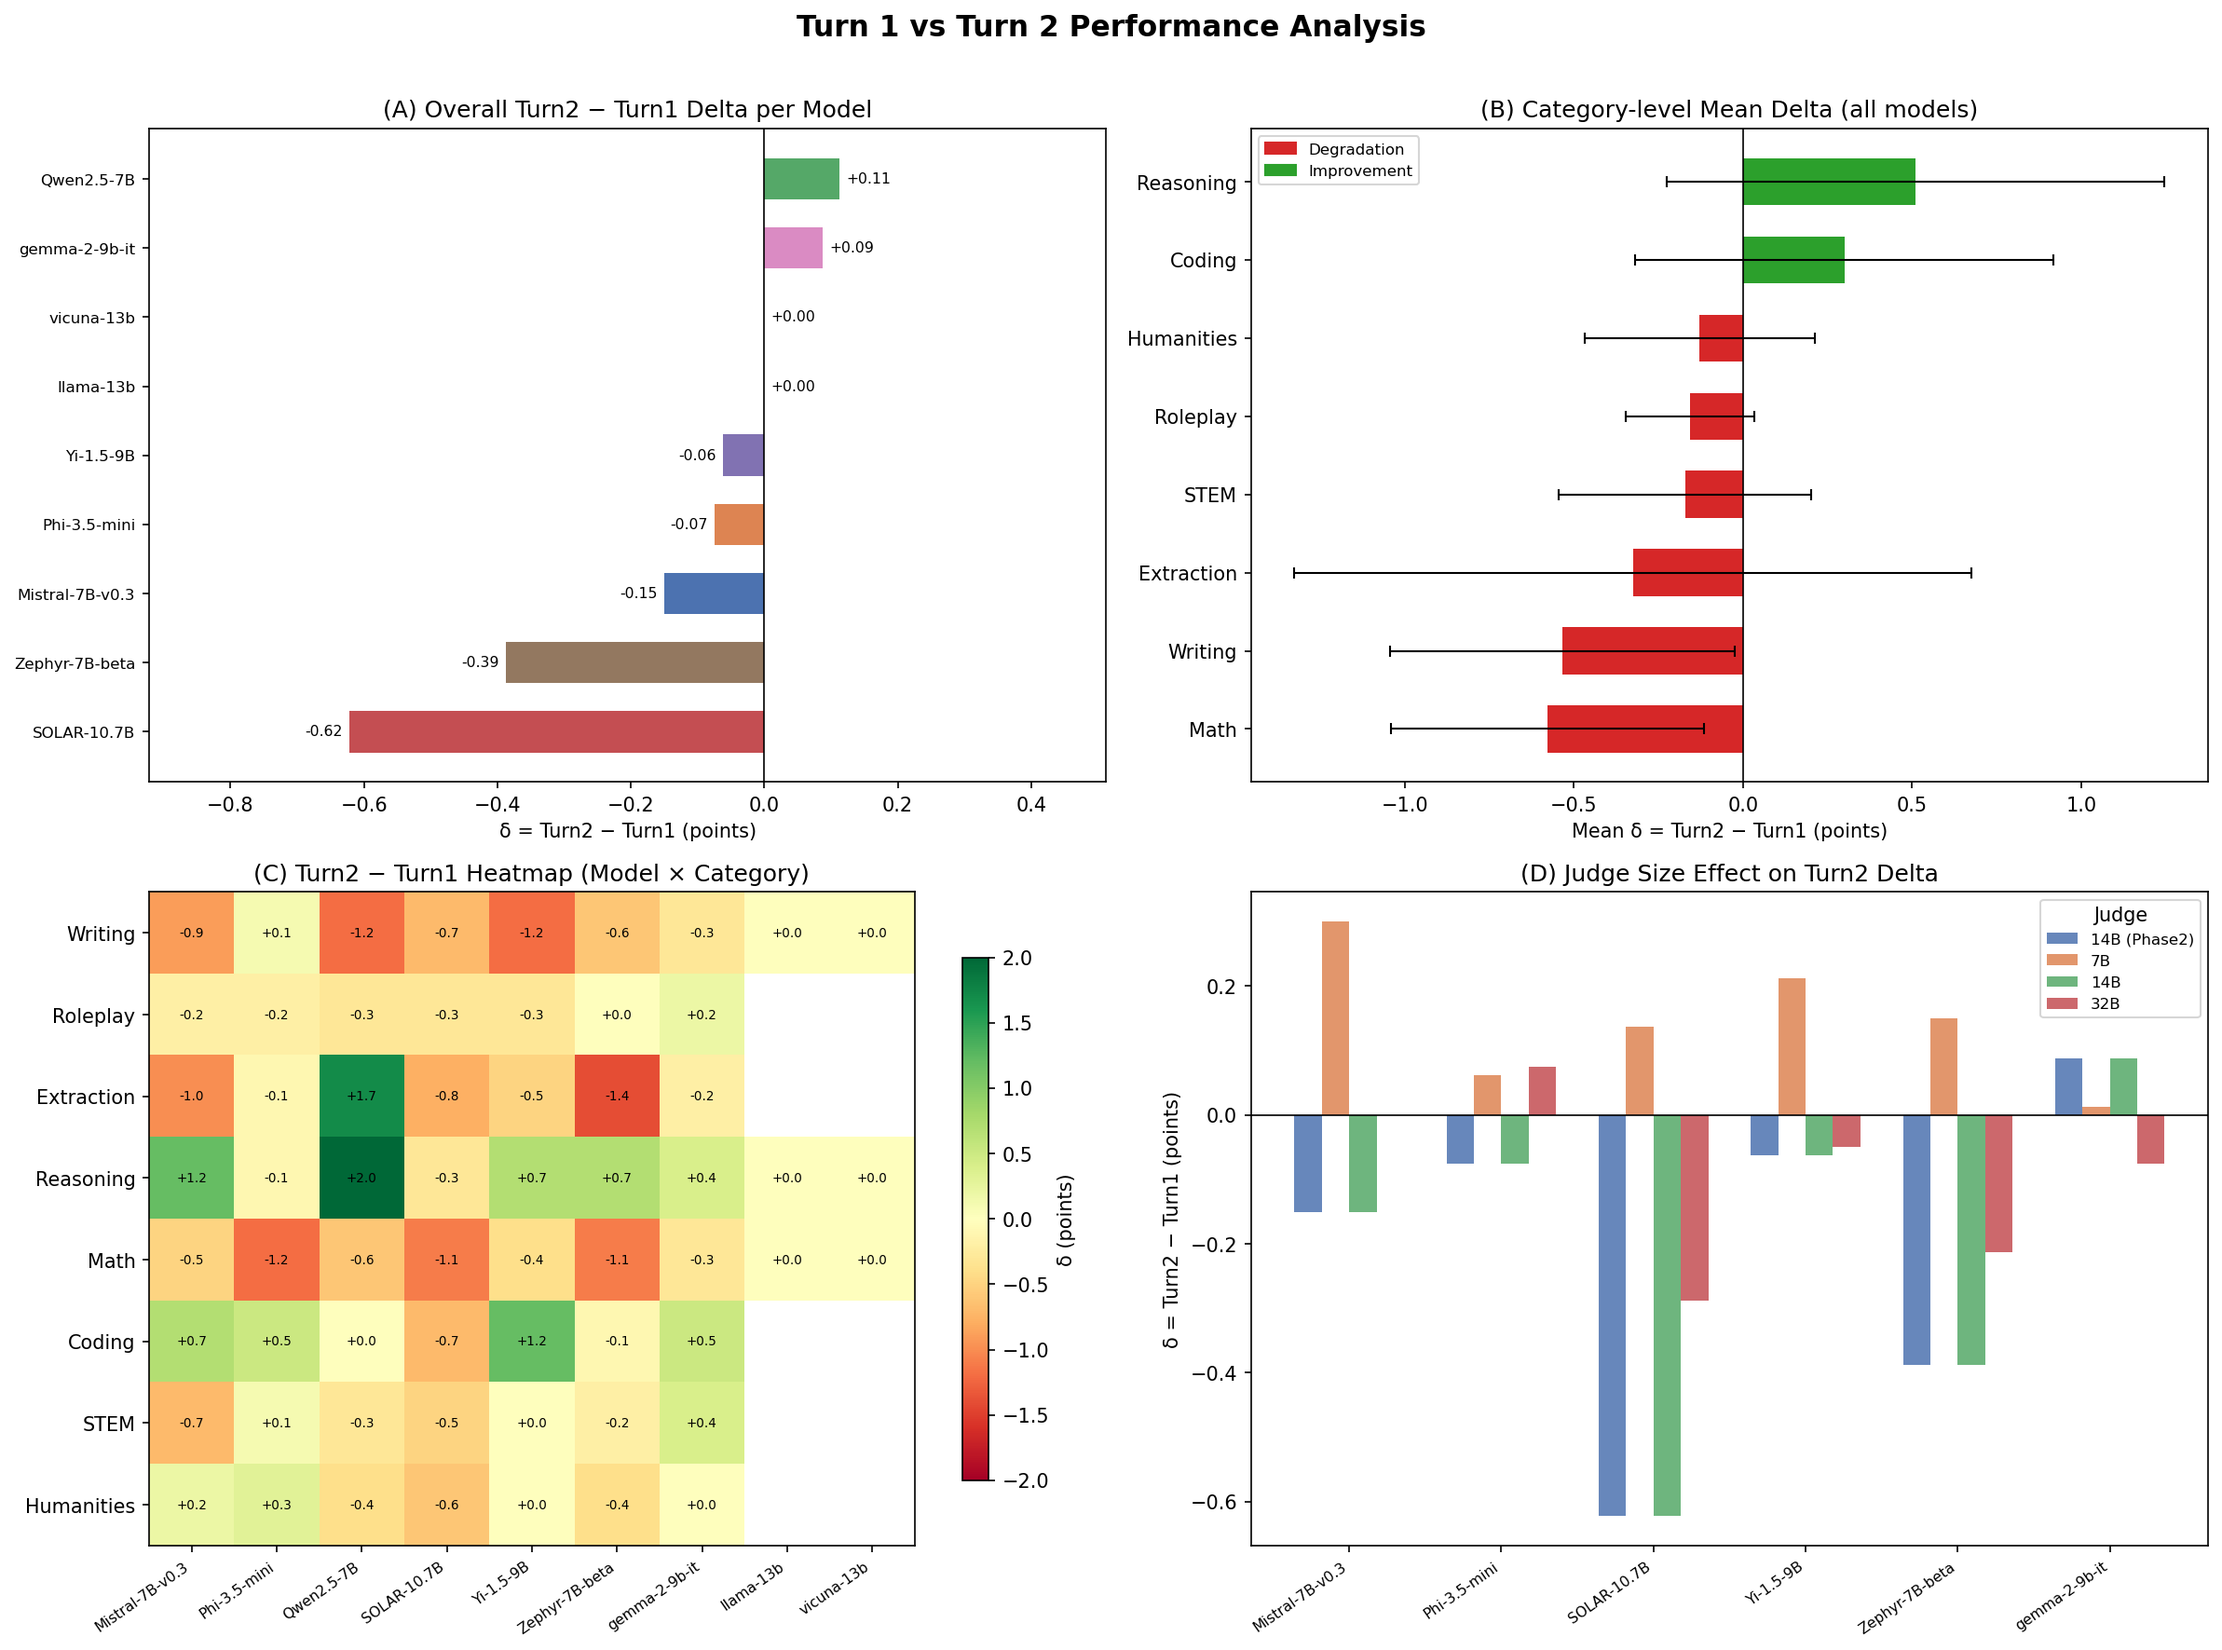
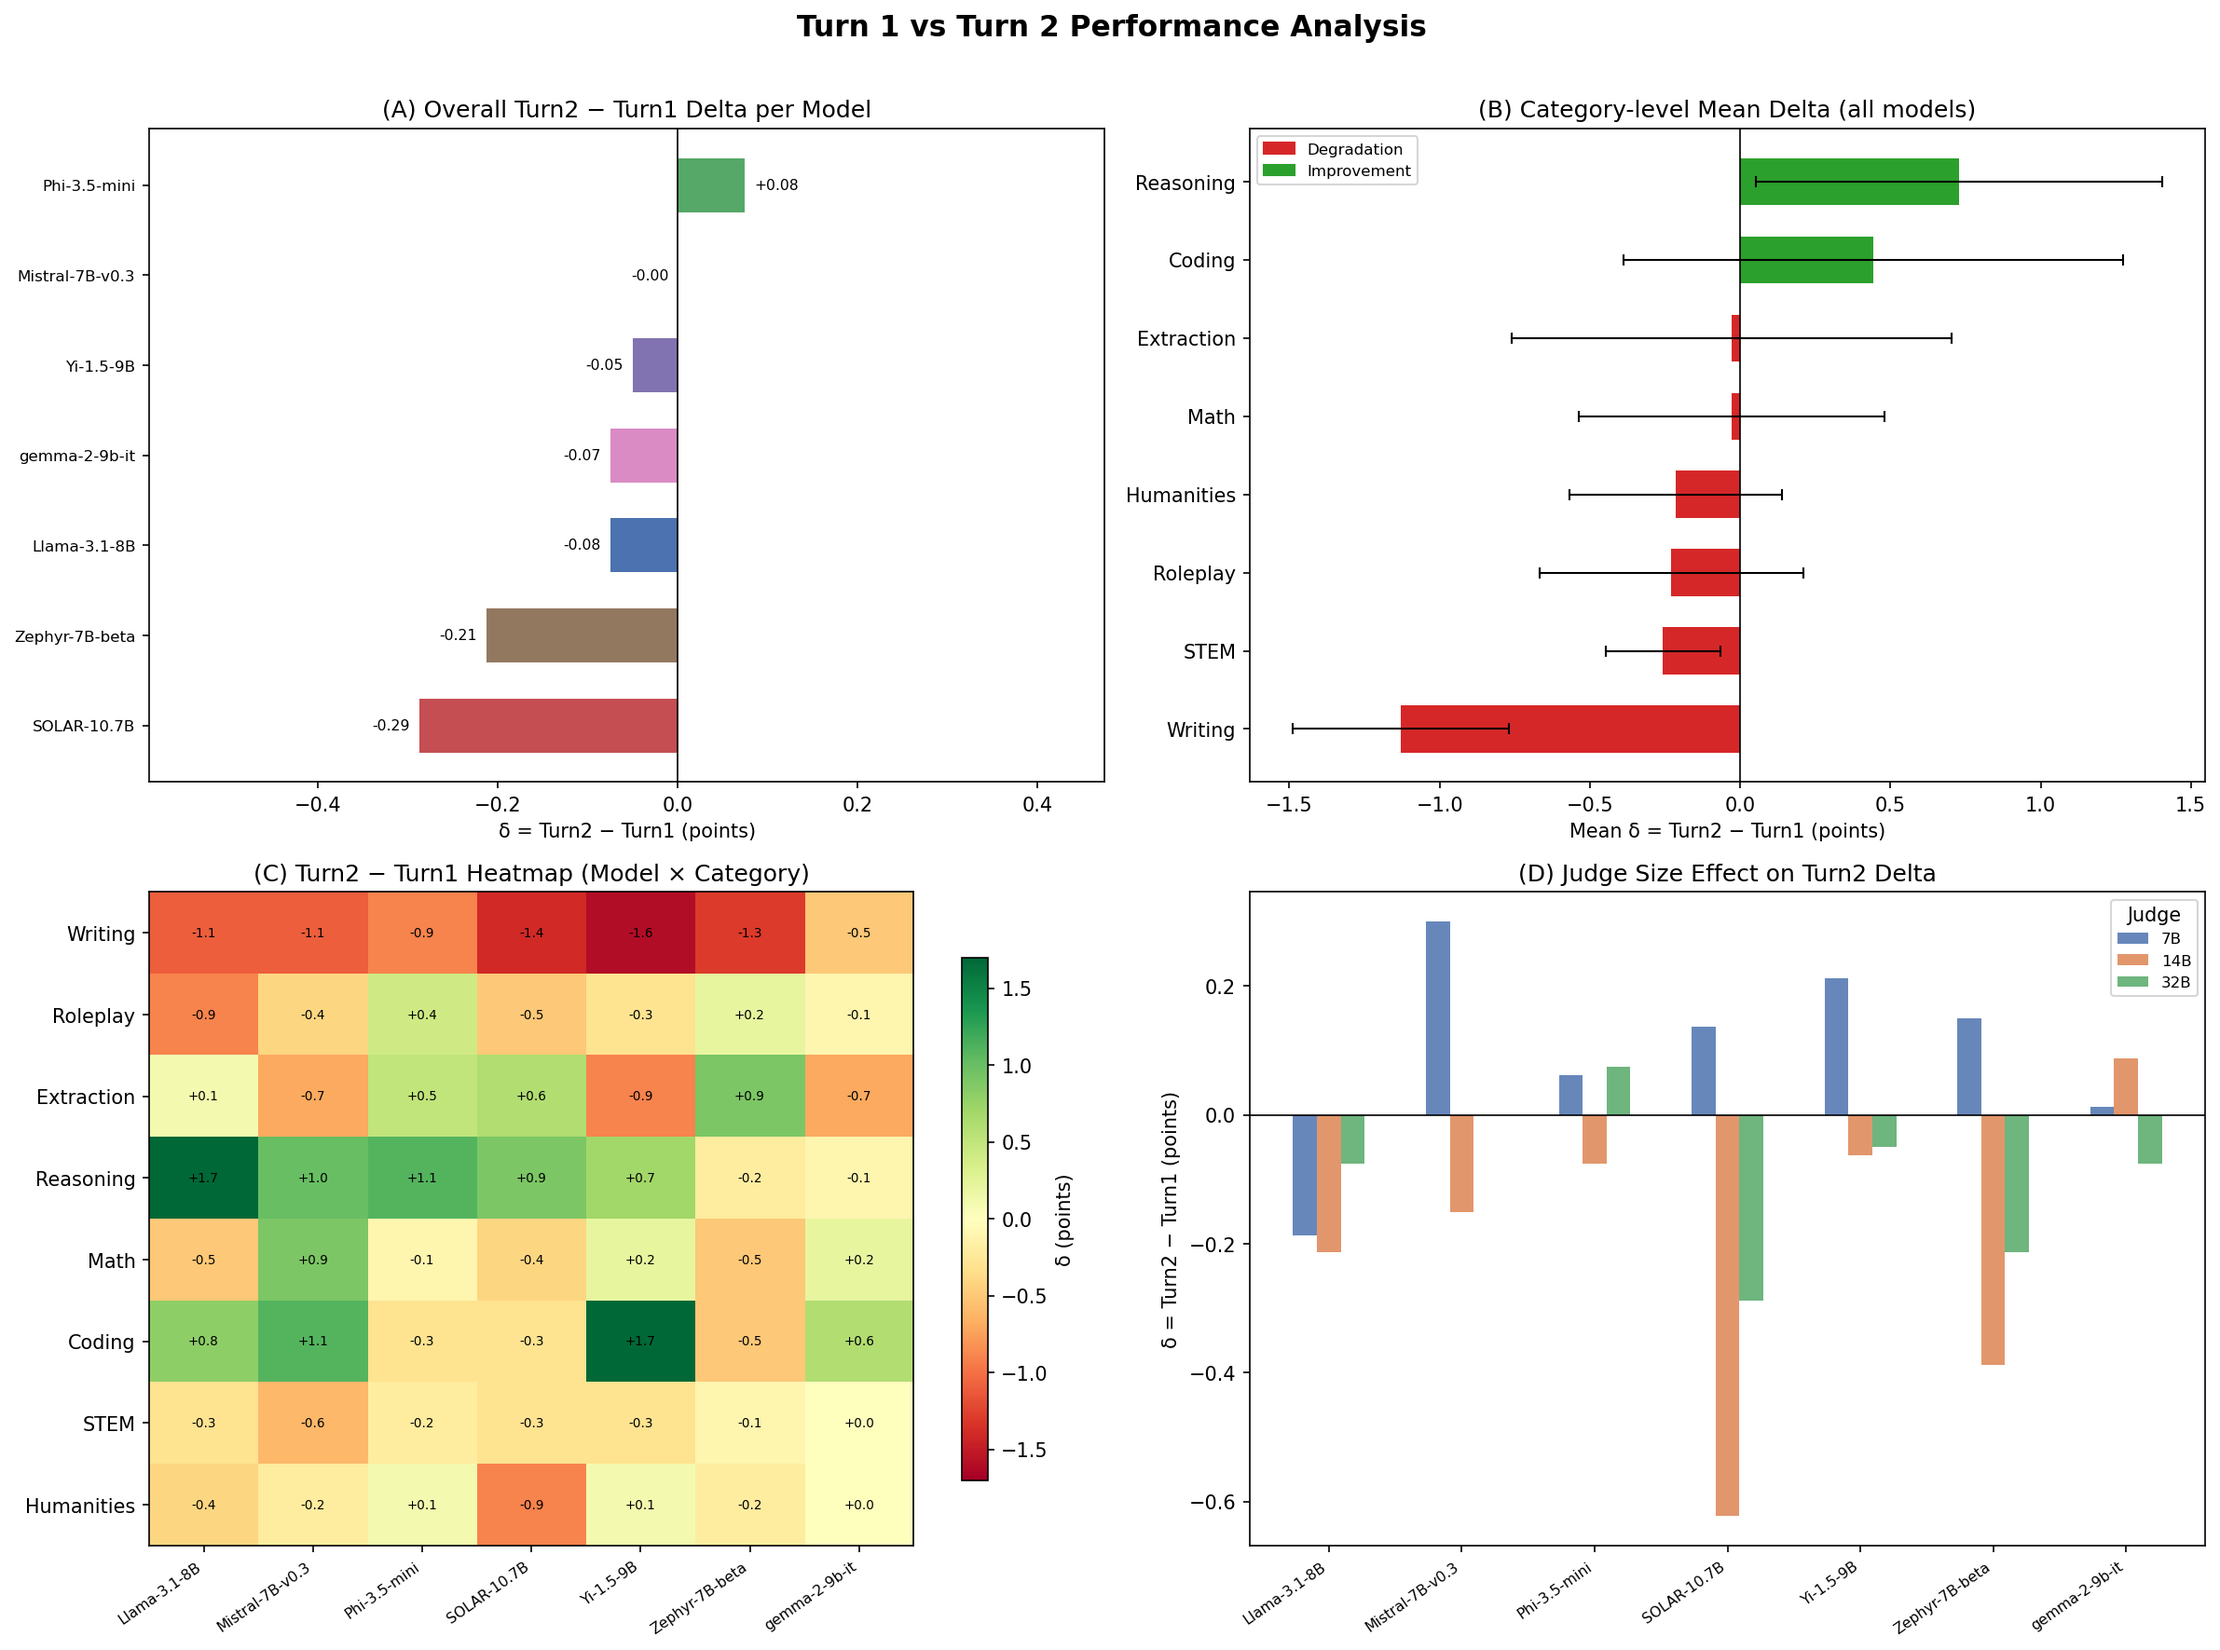
refactor: reorganize data by phase, fix self-judge contamination
Data reorganization:
- data/judgments_phase1/ : Qwen2.5-7B (self-judge) + llama-13b/vicuna-13b (gpt-4 judge)
- data/judgments_phase2/ : 6 models judged by Qwen2.5-14B (clean)
- data/judgments_phase3/ : 7 models judged by Qwen2.5 7B/14B/32B (already clean)

Analysis scripts updated to use Phase 3 judge_32B as primary data source:
- analyze_discriminability.py: Phase 2 → Phase 3/32B, 6 models → 7 models
- analyze_tiny_mt_bench.py: same; TopDisc-25 achieves ρ≥0.95 (not TopDisc-15)
- analyze_turn_degradation.py: Phase 2 primary → Phase 3/32B primary; Panel D Phase3-only

Key result changes (Phase 3, 7 models):
- tinyMT-Bench: TopDisc-25 for ρ≥0.95 (vs TopDisc-15 previously — corrected)
- Turn degradation: Writing −1.13 worst, Math −0.03 near-neutral, Coding/Reasoning still improve

Shell scripts: data/judgments/ → data/judgments_phase2/

diff --git a/scripts/analyze_turn_degradation.py b/scripts/analyze_turn_degradation.py
@@ -29,12 +29,15 @@ DATA_DIR = ROOT / "data"
 FIG_DIR = ROOT / "figures"
 FIG_DIR.mkdir(exist_ok=True)
 
-PHASE2_JUDGE_DIR = DATA_DIR / "judgments" / "single_grade"
+# Phase 3 데이터만 사용 (self-judge / 동일 패밀리 편향 제거)
+# Phase 2 데이터(data/judgments_phase2/)는 Qwen2.5-14B judge → 분석에서 제외
 PHASE3_JUDGE_DIRS = {
     "7B":  DATA_DIR / "judgments_phase3" / "judge_7B"  / "single_grade",
     "14B": DATA_DIR / "judgments_phase3" / "judge_14B" / "single_grade",
     "32B": DATA_DIR / "judgments_phase3" / "judge_32B" / "single_grade",
 }
+# 주 분석에 사용할 judge (불일치율 가장 낮음)
+PRIMARY_JUDGE_DIR = PHASE3_JUDGE_DIRS["32B"]
 
 CATEGORIES = ["writing", "roleplay", "extraction", "reasoning",
               "math", "coding", "stem", "humanities"]
@@ -215,10 +218,10 @@ def make_figure(delta_table: dict, phase3_tables: dict, output_path: Path):
                 ax.text(j, i, f"{v:+.1f}", ha="center", va="center",
                         fontsize=6.5, color="black")
 
-    # ── Panel D: Judge 크기별 Overall Turn2 저하 비교 ─────────────────────────
+    # ── Panel D: Judge 크기별 Overall Turn2 저하 비교 (Phase 3 only) ──────────
     ax = axes[1, 1]
-    judge_labels = ["14B (Phase2)", "7B", "14B", "32B"]
-    judge_sources = [delta_table] + [phase3_tables.get(k) for k in ["7B", "14B", "32B"]]
+    judge_labels = ["7B", "14B", "32B"]
+    judge_sources = [phase3_tables.get(k) for k in ["7B", "14B", "32B"]]
 
     # 모든 judge에 공통으로 존재하는 모델만 사용
     common_models = None
@@ -245,7 +248,7 @@ def make_figure(delta_table: dict, phase3_tables: dict, output_path: Path):
                 deltas.append(statistics.mean(p[1] - p[0] for p in all_pairs))
             else:
                 deltas.append(0.0)
-        offset = (k - 1.5) * width
+        offset = (k - 1.0) * width
         ax.bar(x + offset, deltas, width=width, label=jlabel, color=jcolor, alpha=0.85)
 
     ax.axhline(0, color="black", linewidth=0.8)
@@ -297,13 +300,14 @@ def print_summary(delta_table: dict):
 
 # ── 메인 ──────────────────────────────────────────────────────────────────────
 def main():
-    print("Phase 2 (Qwen2.5-14B judge) 데이터 로드 중...")
-    phase2_data = load_judgments(PHASE2_JUDGE_DIR)
-    print(f"  → 모델 {len(phase2_data)}개 로드 완료: {sorted(phase2_data.keys())}")
+    # 주 분석: Phase 3 judge_32B (불일치율 가장 낮음, self-judge 편향 없음)
+    print("Phase 3 (judge_32B) 데이터 로드 중...")
+    primary_data = load_judgments(PRIMARY_JUDGE_DIR)
+    print(f"  → 모델 {len(primary_data)}개 로드 완료: {sorted(primary_data.keys())}")
 
-    delta_table = compute_delta_table(phase2_data)
+    delta_table = compute_delta_table(primary_data)
 
-    # Phase 3 데이터
+    # judge 크기별 비교용 (Panel D)
     phase3_tables = {}
     for judge_size, judge_dir in PHASE3_JUDGE_DIRS.items():
         if judge_dir.exists():

diff --git a/scripts/analyze_tiny_mt_bench.py b/scripts/analyze_tiny_mt_bench.py
@@ -63,9 +63,10 @@ plt.rcParams.update({
 
 # ── 상수 ──────────────────────────────────────────────────────────────────────
 DISC_CSV   = _PROJECT_DIR / "data" / "results_discriminability.csv"
-GRADE_DIR  = _PROJECT_DIR / "data" / "judgments" / "single_grade"
+GRADE_DIR  = _PROJECT_DIR / "data" / "judgments_phase3" / "judge_32B" / "single_grade"
 OUTPUT_CSV = _PROJECT_DIR / "data" / "results_tiny_mt_bench.csv"
 
+# Phase 3 subject 모델 7개 (Qwen 계열 제외 — judge 역할)
 MODELS = [
     "Phi-3.5-mini-Instruct",
     "gemma-2-9b-it",
@@ -73,6 +74,7 @@ MODELS = [
     "Mistral-7B-Instruct-v0.3",
     "SOLAR-10.7B-Instruct",
     "Zephyr-7B-beta",
+    "Llama-3.1-8B-Instruct",
 ]
 N_SIZES  = [5, 10, 15, 20, 25, 30, 40, 60, 80]
 N_TRIALS = 200   # 랜덤 서브샘플 반복 횟수 (많을수록 분산 추정 정확)

diff --git a/scripts/analyze_discriminability.py b/scripts/analyze_discriminability.py
@@ -64,10 +64,11 @@ plt.rcParams.update({
 })
 
 # ── 상수 ──────────────────────────────────────────────────────────────────────
-GRADE_DIR  = _PROJECT_DIR / "data" / "judgments" / "single_grade"
+GRADE_DIR  = _PROJECT_DIR / "data" / "judgments_phase3" / "judge_32B" / "single_grade"
 Q_FILE     = _PROJECT_DIR / "data" / "mt_bench_questions.jsonl"
 OUTPUT_CSV = _PROJECT_DIR / "data" / "results_discriminability.csv"
 
+# Phase 3 subject 모델 7개 (Qwen 계열 제외 — judge 역할)
 MODELS = [
     "Phi-3.5-mini-Instruct",
     "gemma-2-9b-it",
@@ -75,6 +76,7 @@ MODELS = [
     "Mistral-7B-Instruct-v0.3",
     "SOLAR-10.7B-Instruct",
     "Zephyr-7B-beta",
+    "Llama-3.1-8B-Instruct",
 ]
 
 HARD_CATS = {"math", "reasoning", "coding"}
